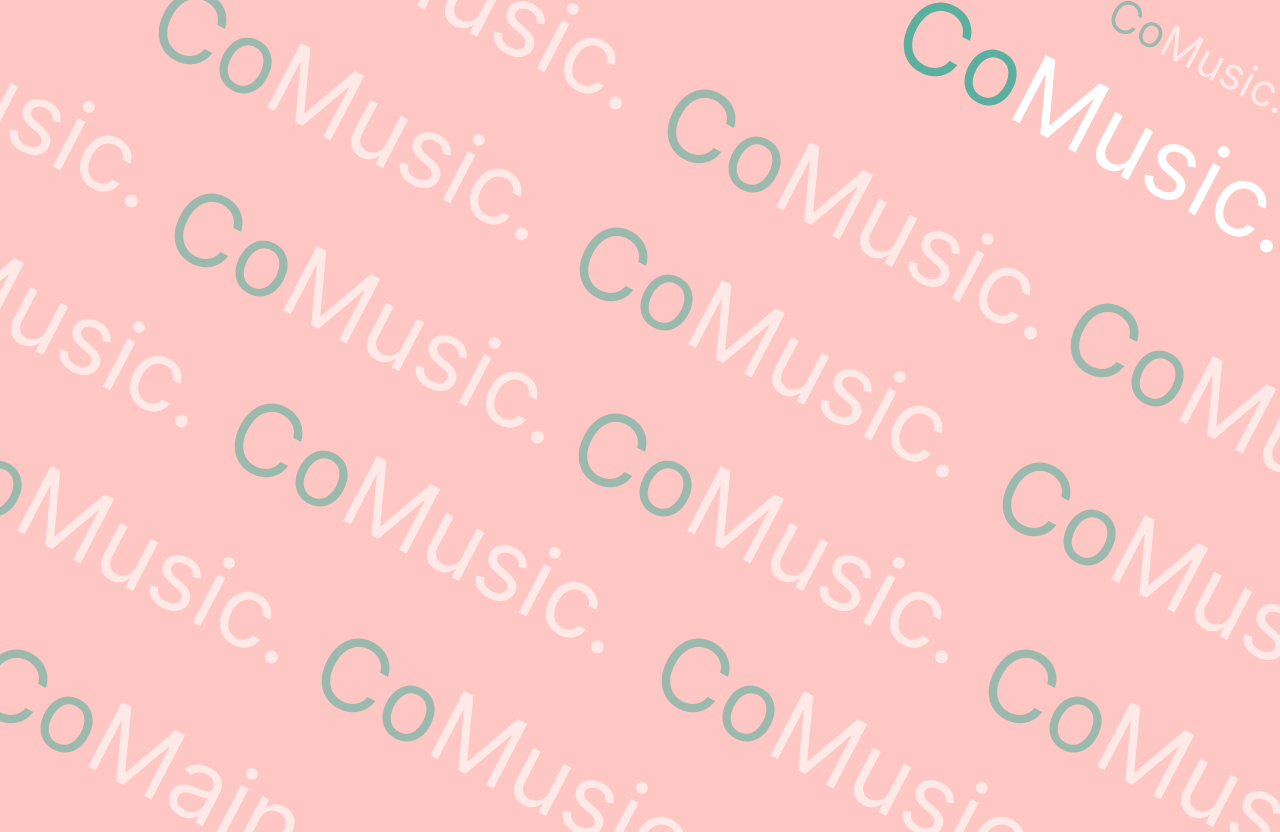
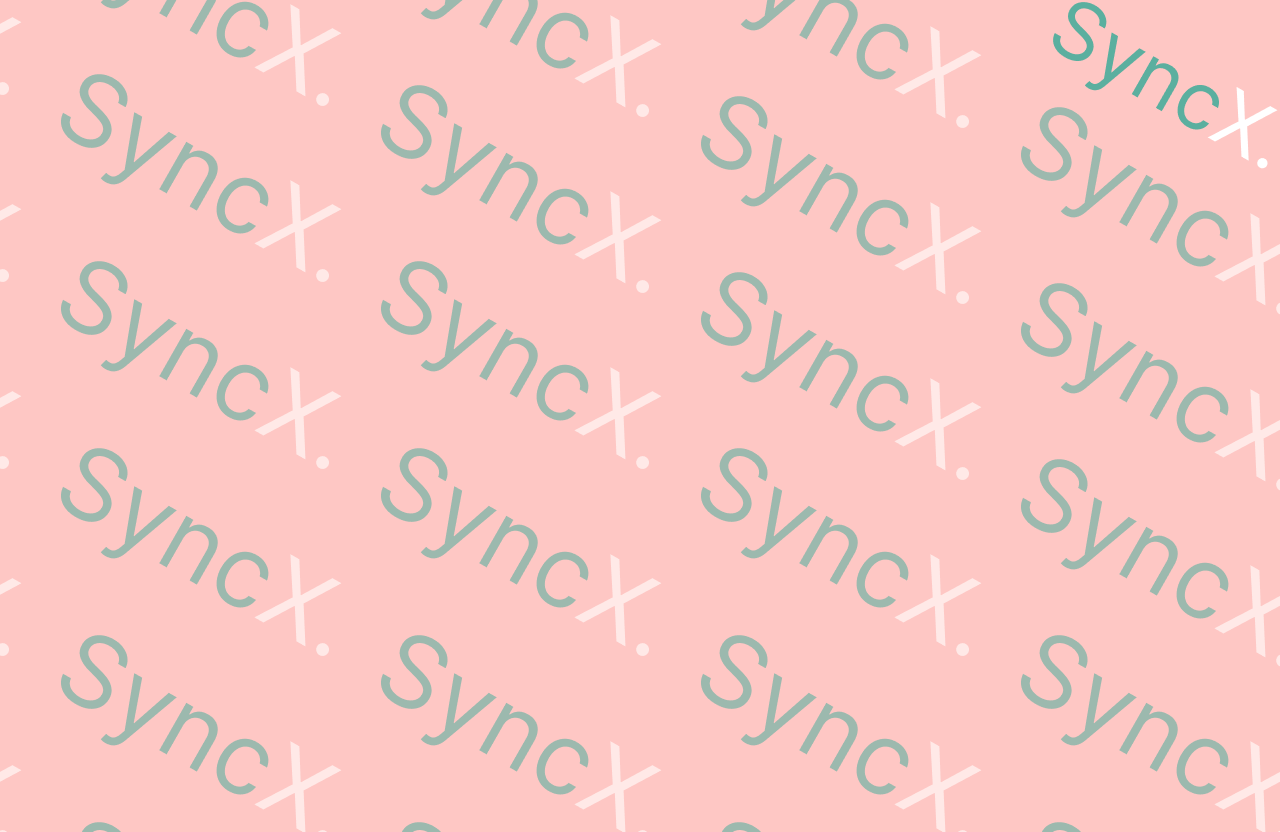
music UI finished

diff --git a/css/style.css b/css/style.css
@@ -139,14 +139,14 @@ section#form-page .wrapper .form-container button.social-connect:hover{
 
 /* ------------main--------------- */
 .bg{
-    background: url(../images/headset2.jpg), no-repeat;
+    background: url(../images/headset-bg.jpg), no-repeat;
     background-size: cover;
     background-position: center;
     height: 100vh;
 }
 header.main{
     padding: 40px 70px;
-    /* padding-bottom: 0; */
+    padding-bottom: 0;
     display: flex;
     justify-content: space-between;
 }
@@ -182,8 +182,12 @@ header.main ul li span{
     font-size: 25px;
     border-radius: 50px;
 }
+.bg.flex{
+    display: flex;
+    justify-content: space-between;
+    flex-direction: column;
+}
 #hero{
-
 }
 #hero .wrapper{
     padding: 0px 90px;
@@ -201,6 +205,7 @@ header.main ul li span{
     font-size: 55px;
     line-height: 130%;
     color: #fff;
+    margin-top: -50px;
 }
 #hero .wrapper .left h1 span{
     background: #c8ede6;
@@ -216,7 +221,6 @@ header.main ul li span{
 #hero .wrapper .right{
     width: 50%;
     text-align: center;
-    padding-top: 10%;
 }
 #hero .wrapper .right button{
     font-family: "Poppins", sans-serif;
@@ -239,4 +243,18 @@ header.main ul li span{
     margin-bottom: 30px;
     opacity: 0.6;
     padding: 0 25%;
+}
+footer{
+    padding: 0 70px;
+    display: flex;
+    justify-content: space-between;
+    padding-bottom: 20px;
+}
+footer .left{
+
+}
+footer  p{
+    font-size: 16px;
+    opacity: 0.6;
+    color: #000;
 }

diff --git a/main.html b/main.html
@@ -4,12 +4,13 @@
     <meta charset="UTF-8">
     <meta name="viewport" content="width=device-width, initial-scale=1.0">
     <link rel="stylesheet" href="css/style.css">
-    <title>CoMusic | Dashboard</title>
+    <link rel="icon" href="images/music-favicon.jpg">
+    <title>SyncX | Home</title>
 </head>
 <body>
-    <div class="bg">
+    <div class="bg flex">
         <header class="main">
-            <h1 class="left"><span>Co</span>Music.</h1>
+            <h1 class="left"><span>Sync</span>X.</h1>
             <ul>
                 <li><a href="">logout</a></li>
                 <li><span>A</span></li>
@@ -28,6 +29,14 @@
                 </div>
             </section>
         </section>
+        <footer>
+            <div class="left">
+                <p>Developed by <a href="https://www.instagram.com/nexift.team/" target="_blank" title="https://www.instagram.com/nexift.team/">Nexift.Team</a>.</p>
+            </div>
+            <div class="right">
+                <p>&copy;Copyrights 2024.</p>
+            </div>
+        </footer>
     </div>
 </body>
 </html>

diff --git a/register.html b/register.html
@@ -4,12 +4,13 @@
     <meta charset="UTF-8">
     <meta name="viewport" content="width=device-width, initial-scale=1.0">
     <link rel="stylesheet" href="css/style.css">
-    <title>CoMusic | Sign Up Page</title>
+    <link rel="icon" href="images/music-favicon.jpg">
+    <title>SyncX | Sign Up Page</title>
 </head>
 <body>
     <div class="bg">
         <header class="form-page">
-            <h1><span>Co</span>Music.</h1>
+            <h1><span>S</span>yncX.</h1>
         </header>
         <section id="form-page">
             <section class="wrapper">

diff --git a/login.html b/login.html
@@ -4,12 +4,13 @@
     <meta charset="UTF-8">
     <meta name="viewport" content="width=device-width, initial-scale=1.0">
     <link rel="stylesheet" href="css/style.css">
-    <title>CoMusic | login Page</title>
+    <link rel="icon" href="images/music-favicon.jpg">
+    <title>SyncX | login Page</title>
 </head>
 <body>
     <div class="bg">
         <header class="form-page">
-            <h1><span>Co</span>Music.</h1>
+            <h1><span>S</span>yncX.</h1>
         </header>
         <section id="form-page">
             <section class="wrapper">

diff --git a/music.html b/music.html
@@ -3,7 +3,8 @@
   <head>
     <meta charset="UTF-8" />
     <meta name="viewport" content="width=device-width, initial-scale=1.0" />
-    <title>Music Player</title>
+    <title>SyncX | Music Room</title>
+    <link rel="icon" href="images/music-favicon.jpg">
     <link rel="stylesheet" href="css/music.css" />
     <link
       rel="stylesheet"
